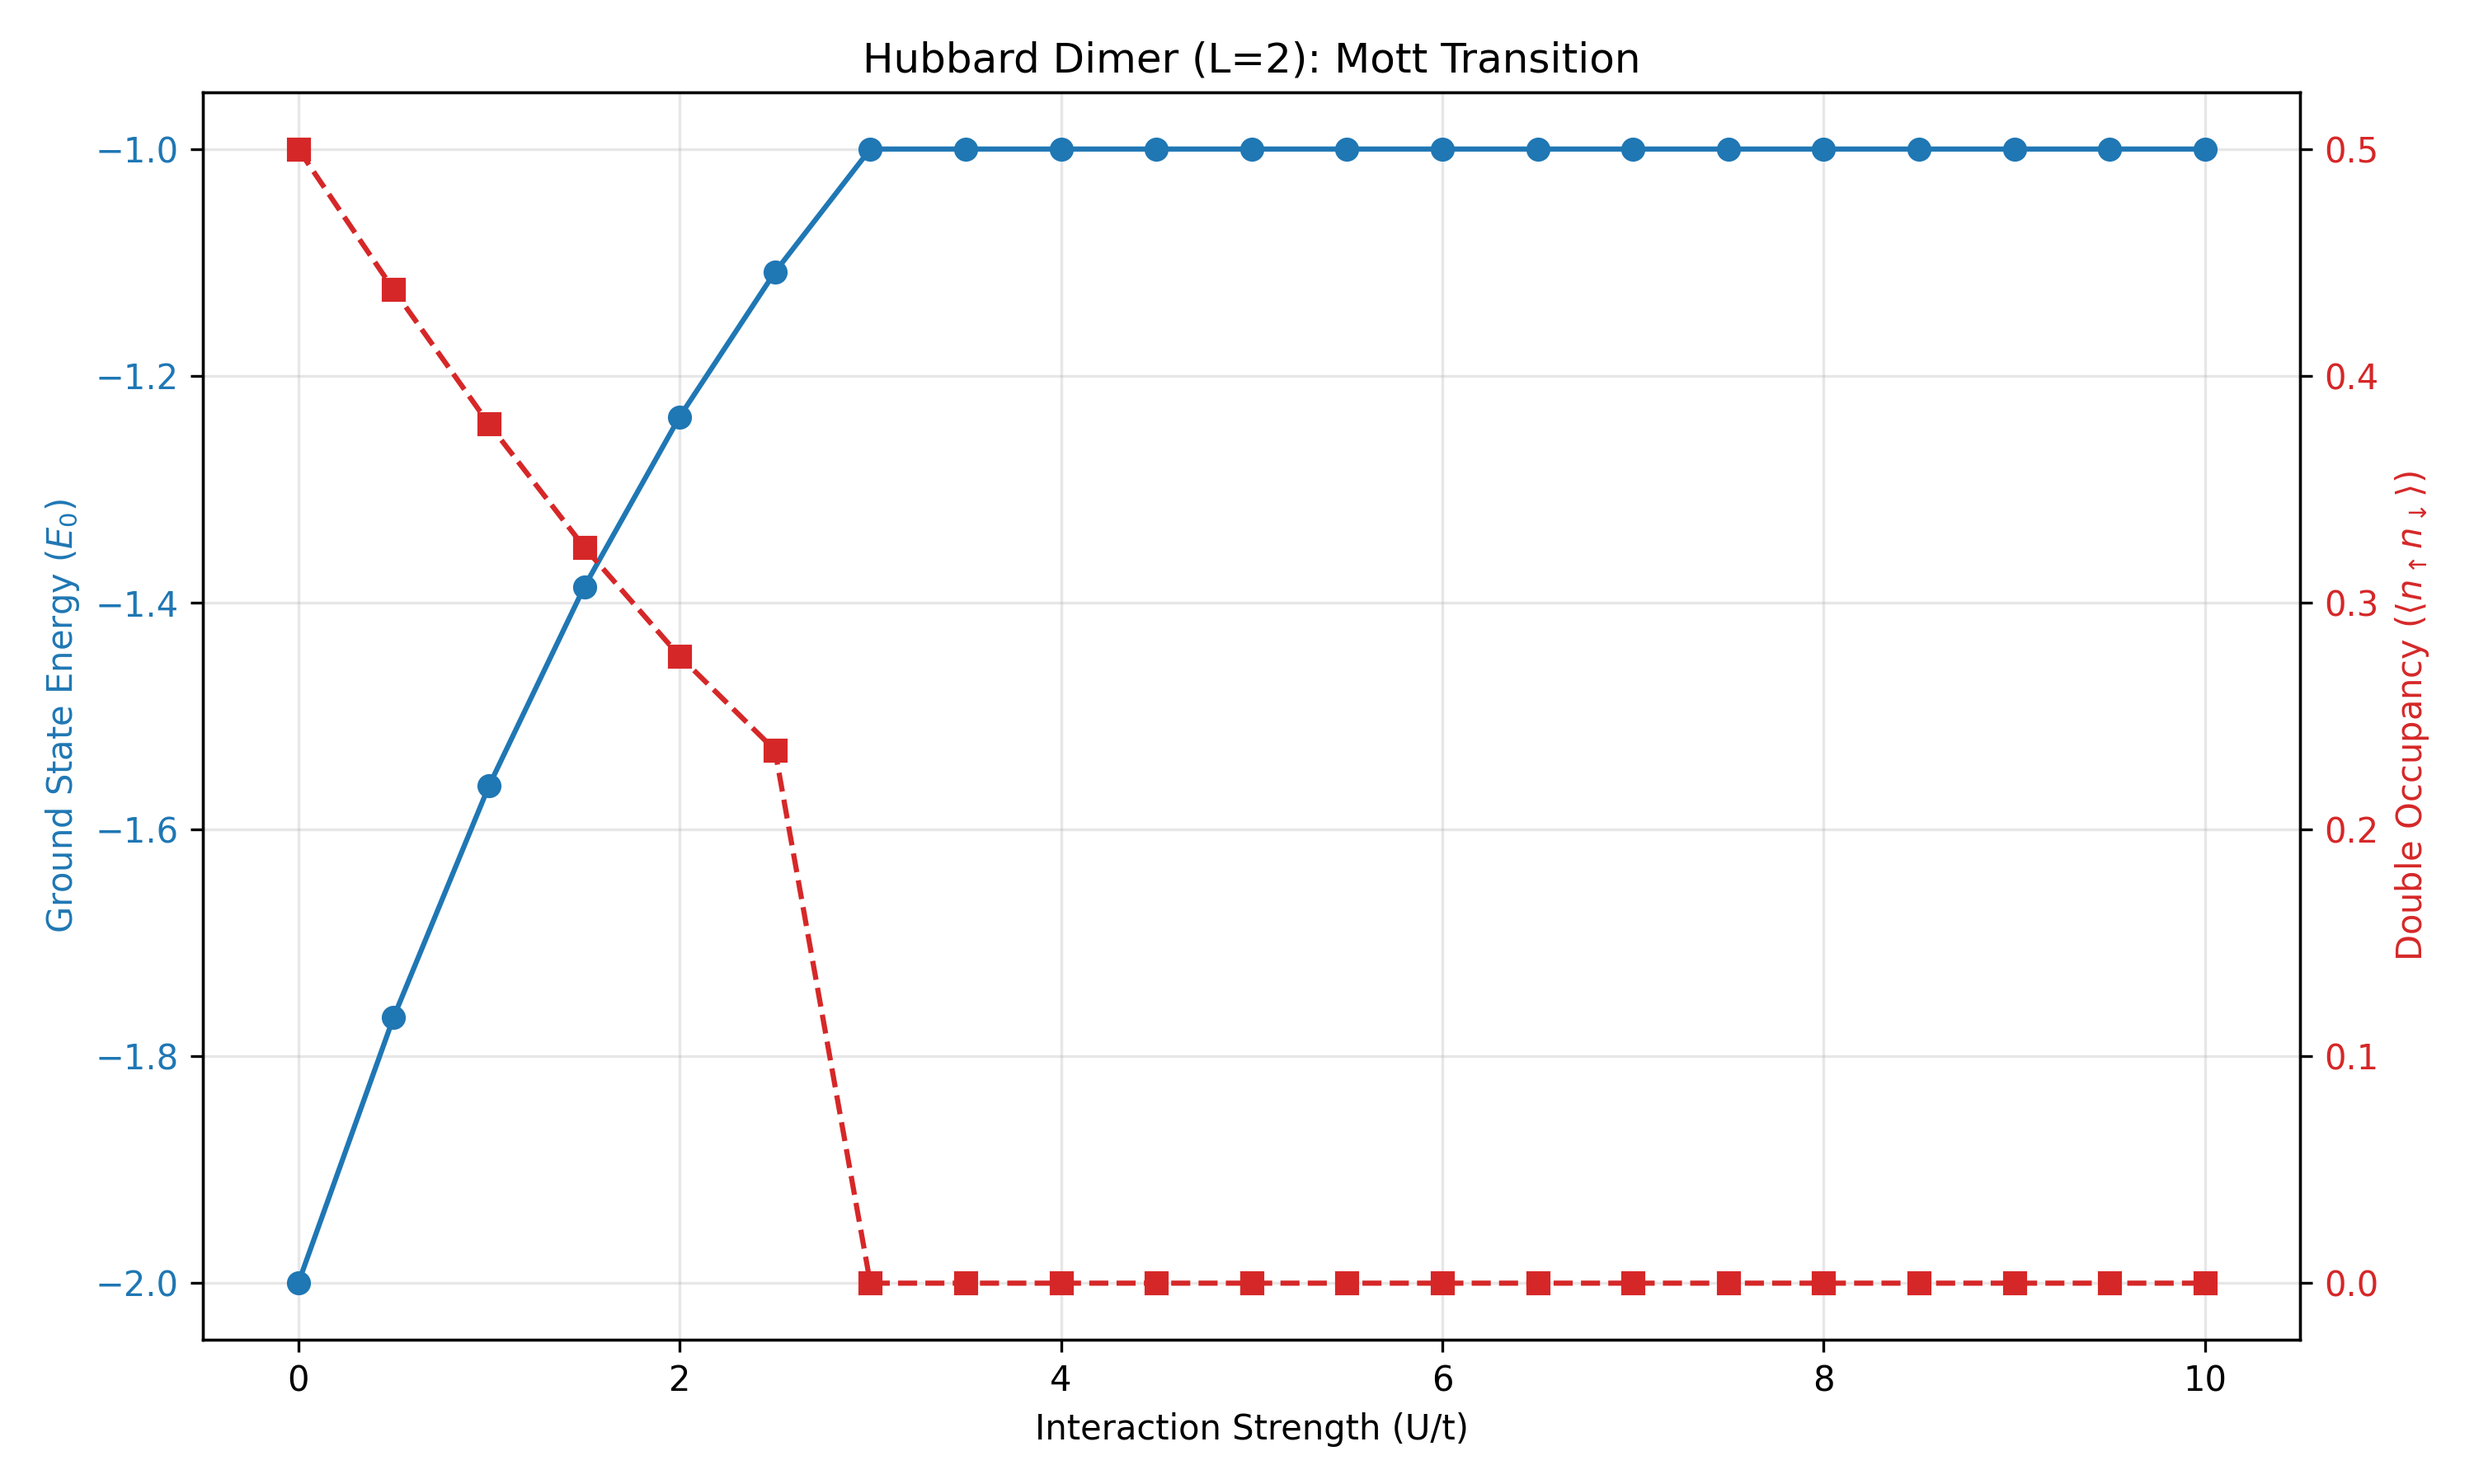
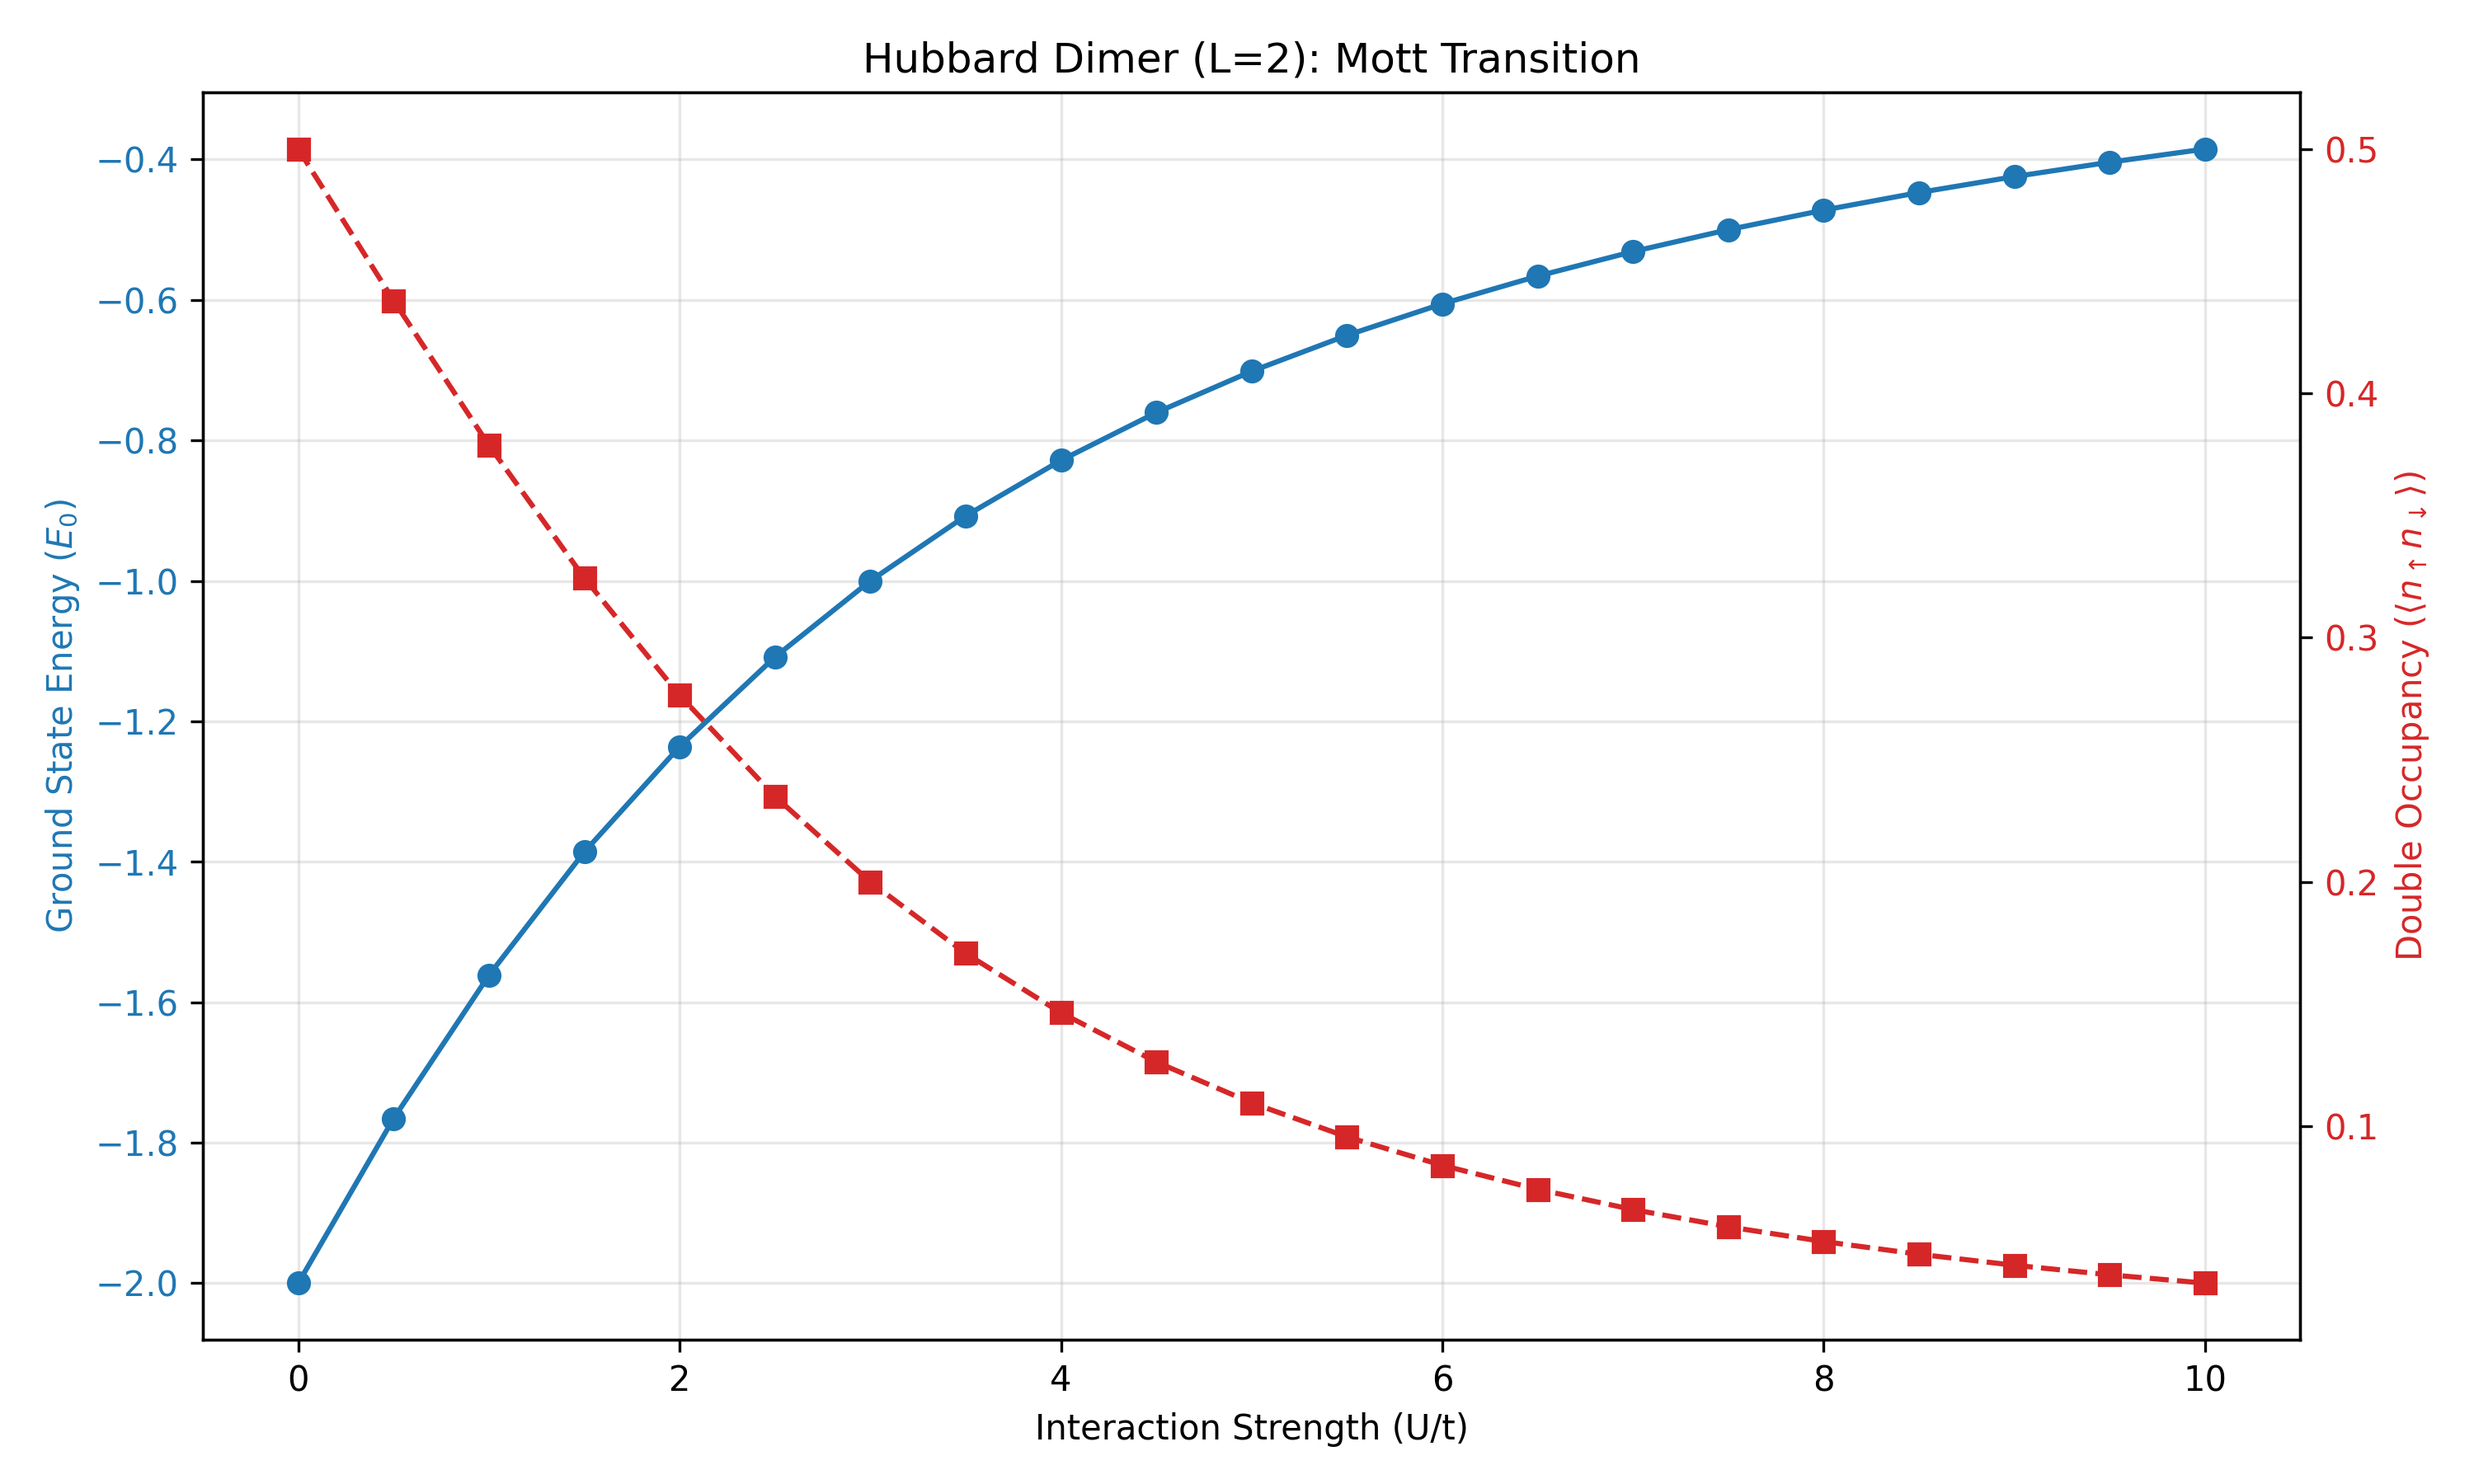
feat(script): add validations to enforce Half Filling regime

diff --git a/scripts/02_solve_exact.py b/scripts/02_solve_exact.py
@@ -8,6 +8,27 @@ from dft_vqe_hubbard.physics.hamiltonian import FermiHubbardModel
 from dft_vqe_hubbard.physics.jordan_wigner import JordanWignerMapper
 
 
+def get_number_operator(model: FermiHubbardModel, backend: NumpyBackend) -> np.ndarray:
+    """Constructs the Total Number operator N = sum_i n_i."""
+    n_dim = 2**model._n_qubits
+    N_op = backend.get_zero_matrix(n_dim)
+
+    for i in range(model._n_sites):
+        idx_up = model._get_qubit_index(i, 0)
+        c_dag_up = model._mapper.get_fermion_creation_operator(model._n_qubits, idx_up)
+        c_up = model._mapper.get_fermion_annihilation_operator(model._n_qubits, idx_up)
+        n_up = backend.matmul(c_dag_up, c_up)
+
+        idx_dn = model._get_qubit_index(i, 1)
+        c_dag_dn = model._mapper.get_fermion_creation_operator(model._n_qubits, idx_dn)
+        c_dn = model._mapper.get_fermion_annihilation_operator(model._n_qubits, idx_dn)
+        n_dn = backend.matmul(c_dag_dn, c_dn)
+
+        N_op = backend.matrix_add(N_op, backend.matrix_add(n_up, n_dn))
+
+    return N_op
+
+
 def get_double_occupancy_operator(model: FermiHubbardModel) -> np.ndarray:
     """
     Constructs the Double Occupancy operator D = sum_i (n_i_up * n_i_down).
@@ -32,6 +53,7 @@ if __name__ == "__main__":
     double_occupancies = []
 
     d_op = get_double_occupancy_operator(model)
+    N_op = get_number_operator(model, backend)
 
     print(f"Running sweep for U = {u_values[0]} to {u_values[-1]} (t={t})...")
 
@@ -40,13 +62,25 @@ if __name__ == "__main__":
 
         eigenvalues, eigenvectors = np.linalg.eigh(H)
 
-        e_ground = eigenvalues[0]
-        psi_ground = eigenvectors[:, 0]
+        e_ground = None
+        psi_ground = None
+
+        for idx, energy in enumerate(eigenvalues):
+            psi = eigenvectors[:, idx]
+
+            n_expect = np.vdot(psi, backend.matmul(N_op, psi)).real
+
+            if np.isclose(n_expect, 2.0, atol=1e-3):
+                e_ground = energy
+                psi_ground = psi
+                break
+
+        if psi_ground is None:
+            print(f"Warning: No N=2 state found for U={U}")
+            continue
 
         d_psi = backend.matmul(d_op, psi_ground)
-        expectation = np.vdot(psi_ground, d_psi)
-
-        d_val = expectation.real
+        d_val = np.vdot(psi_ground, d_psi).real
 
         energies.append(e_ground)
         double_occupancies.append(d_val)
